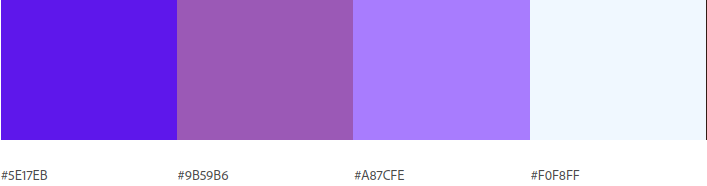
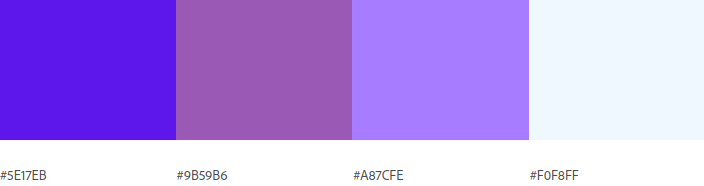
reajuste na paleta de cores

diff --git a/README.md b/README.md
@@ -120,10 +120,12 @@ Após compreender melhor as necessidades de nossas usuárias, determinamos as Hi
   * O protótipo versão desktop [aqui](https://www.figma.com/proto/OSJoeXuZEyurDaYglNHfb0/PicsFem?node-id=6%3A7&scaling=scale-down&page-id=0%3A1&starting-point-node-id=6%3A7&show-proto-sidebar=1)
   
 * **Ou você pode conferí-los nas imagens a seguir:**
-
-  <img src="src/img/paleta.png" alt="Paleta de Cores" style="height: 250px;"/>
+  
   <img src="src/img/1-altafidelidade.png" alt="Protótipo de Alta Fidelidade 1" style="height: 300px;"/>
   <img src="src/img/2-altafidelidade.png" alt="Protótipo de Alta Fidelidade 2" style="height: 300px;"/>
+
+* **Paleta de cores escolhida:**
+  <img src="src/img/paleta.png" alt="Paleta de Cores" style="height: 120px;"/>
 
 ## 6. Testes manuais e de usabilidade
 Após fazermos os testes manuais e de usabilidade, incorporamos os feedbacks dados pelos usuários, e fizemos as seguintes mudanças.
